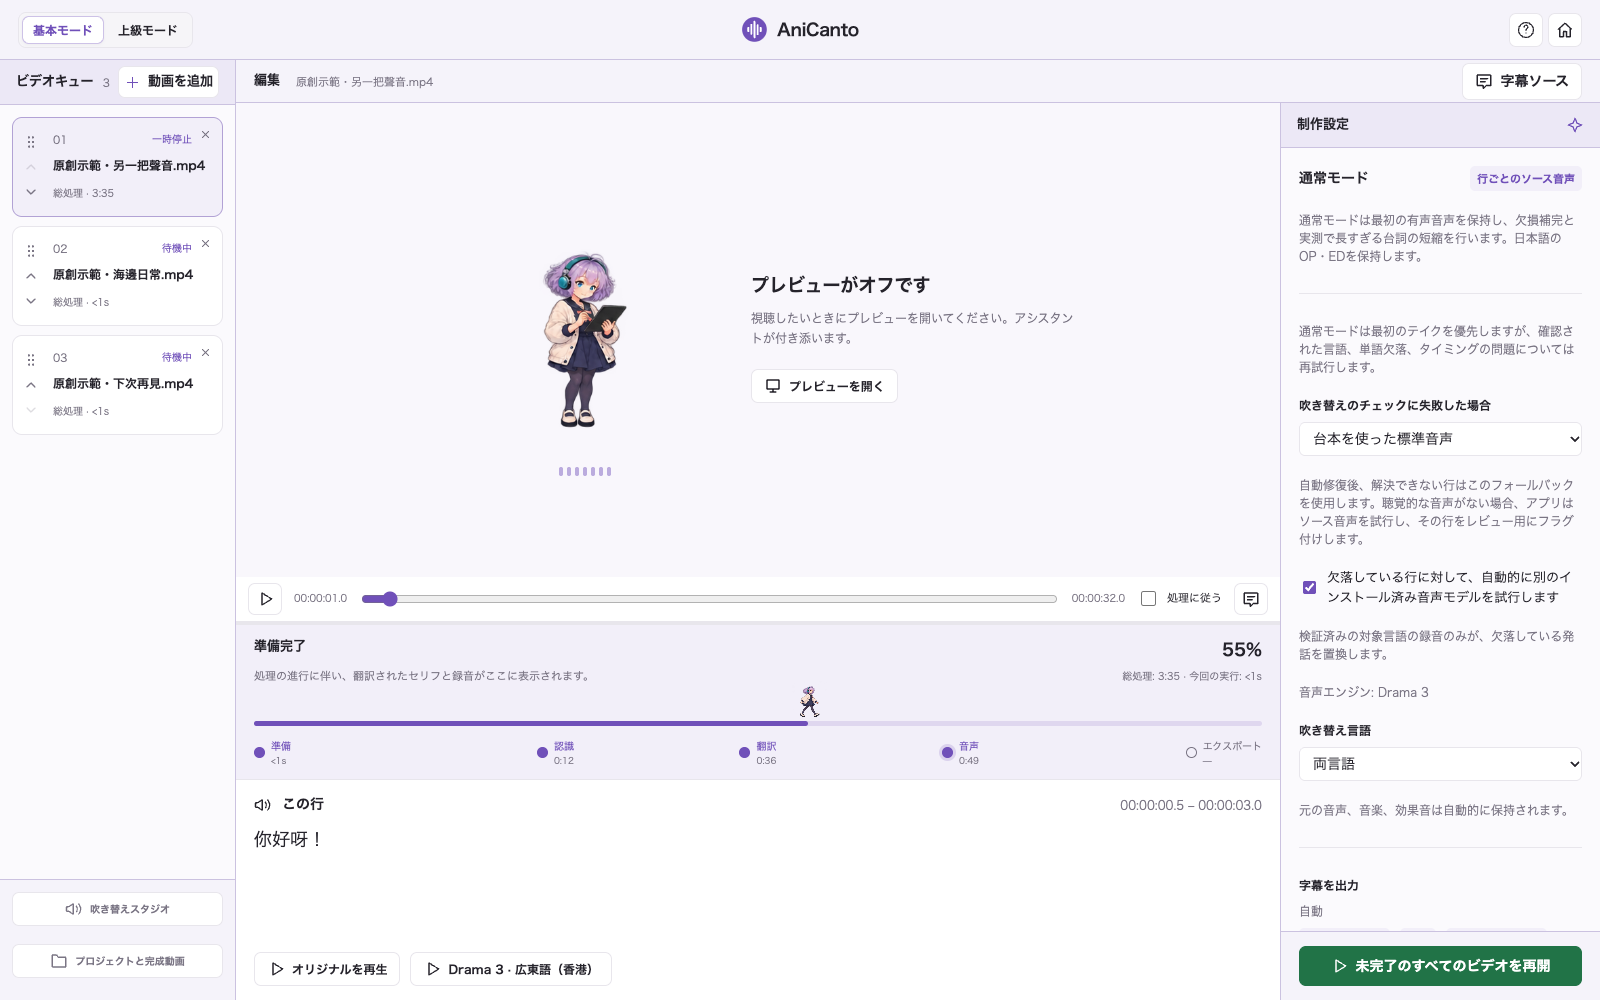
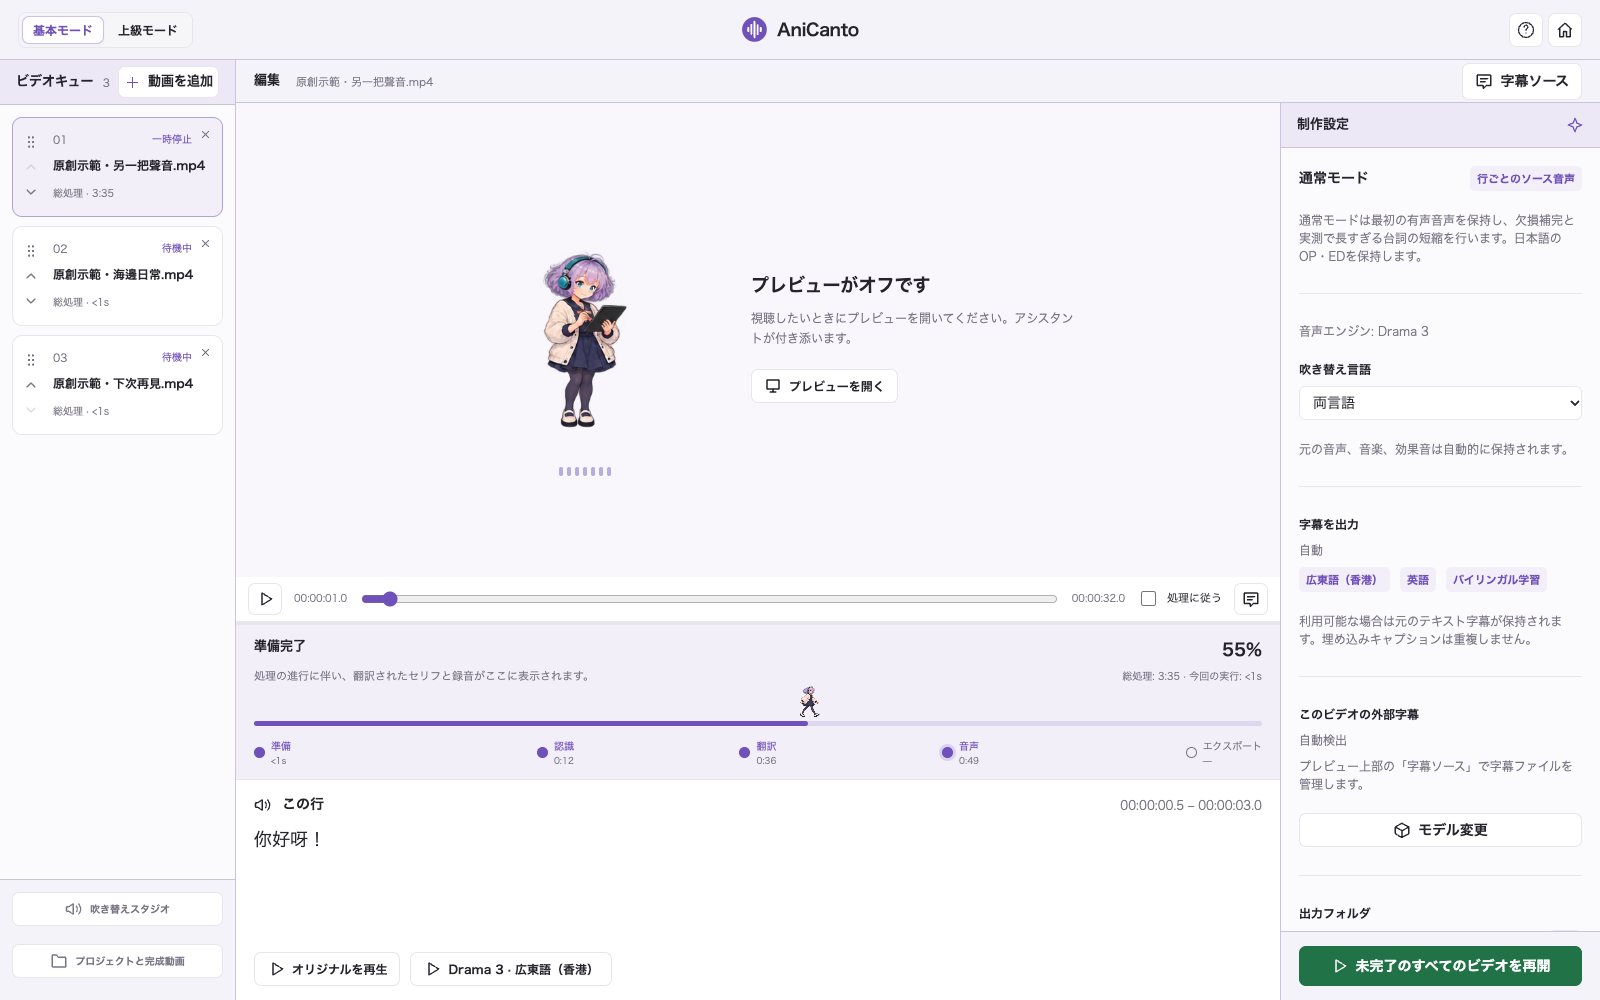
Align repair controls with the default retained-recording policy

Changed region(s): [[0.8125, 0.31, 1.0, 0.837], [0.8125, 0.868, 0.8438, 0.93]]

diff --git a/studio/web/app.js b/studio/web/app.js
@@ -347,7 +347,7 @@ function productionSettings(expert){const s=expert?state.settings:{...state.sett
  <div class="row spread"><h4>${esc(t(s.productionMode==='fast'?'High speed':s.productionMode==='standard'?'Full AI review':'Normal mode'))}</h4><span class="pill">${esc(t(s.productionMode==='standard'?'Full AI review':'Source voice per line'))}</span></div>
  ${s.productionMode==='normal'?`<small>${esc(t(s.normalRepairPolicy==='verified'?'Normal mode checks missing speech, names and language, and keeps Japanese OP / ED.':'Normal mode retains audible first takes, restores missing audio and shortens measured overlong lines. Keep Japanese OP / ED.'))}</small>`:''}
  ${expert?`<details><summary>${esc(t('More options'))}</summary><div class="stack">${field('Production mode',select('productionMode',[['normal','Normal mode'],['fast','High speed'],...(expert||s.productionMode==='standard'?[['standard','Full AI review']]:[])],s.productionMode,productionModeLocked()?`disabled title="${esc(t('Production mode is locked until processing finishes.'))}"`:''))}${productionModeLocked()?`<small>${esc(t('Production mode is locked until processing finishes.'))}</small>`:''}${s.productionMode==='fast'?`<p class="warning">${esc(t('High speed skips all quality review and quality-driven retakes. The video may contain dubbing defects.'))}</p>`:s.productionMode==='standard'?`<p>${esc(t(FULL_AI_NOTICE))}</p>`:''}</div></details>`:''}
- <div class="rule"></div>${expert&&s.normalRepairPolicy==='verified'?check('preferFirstAudibleTake','Prefer the first take; repair confirmed errors and timing conflicts',s.preferFirstAudibleTake!==false,active?'disabled':''):`<small>${esc(t('Normal mode prefers the first take, but retries confirmed language, missing-word and timing problems.'))}</small>`}${expert?`<small>${esc(t('Uncertain accents stay in the review report; confirmed defects trigger bounded retakes.'))}</small>`:''}${field('When dubbing checks still fail',select('failedVoicePolicy',[['generic','Generic target-language voice from the script'],['first-take','First audible generated take'],['source','Original source speech']],s.failedVoicePolicy||'generic',productionModeLocked()?'disabled':''))}<small>${esc(t('After automatic repair, unresolved lines use this fallback. If it has no audible audio, the app tries source speech and flags the line for review.'))}</small>${check('automaticAlternateVoice','Automatically try another installed voice model for missing lines',s.automaticAlternateVoice!==false,active?'disabled':'')}<small>${esc(t('Only verified target-language recordings replace missing speech.'))}</small>${expert?field('Voice engine',select('ttsBackend',engineMenu(),s.ttsBackend,active?'disabled':'')):`<small>${esc(t('Voice engine'))}: ${esc(engineName(s.ttsBackend))}</small>`}
+ <div class="rule"></div>${expert&&s.normalRepairPolicy==='verified'?check('preferFirstAudibleTake','Prefer the first take; repair confirmed errors and timing conflicts',s.preferFirstAudibleTake!==false,active?'disabled':''):''}${expert&&s.normalRepairPolicy==='verified'?`<small>${esc(t('Uncertain accents stay in the review report; confirmed defects trigger bounded retakes.'))}</small>`:''}${s.normalRepairPolicy==='verified'?field('When dubbing checks still fail',select('failedVoicePolicy',[['generic','Generic target-language voice from the script'],['first-take','First audible generated take'],['source','Original source speech']],s.failedVoicePolicy||'generic',productionModeLocked()?'disabled':'')):''}${s.normalRepairPolicy==='verified'?`<small>${esc(t('After automatic repair, unresolved lines use this fallback. If it has no audible audio, the app tries source speech and flags the line for review.'))}</small>${check('automaticAlternateVoice','Automatically try another installed voice model for missing lines',s.automaticAlternateVoice!==false,active?'disabled':'')}<small>${esc(t('Only verified target-language recordings replace missing speech.'))}</small>`:''}${expert?field('Voice engine',select('ttsBackend',engineMenu(),s.ttsBackend,active?'disabled':'')):`<small>${esc(t('Voice engine'))}: ${esc(engineName(s.ttsBackend))}</small>`}
  ${expert?`<details class="engine-tracks"><summary>${esc(t('Additional voice engines'))} · ${(s.selectedEngines||[]).length}</summary><div class="stack"><small>${esc(t('Create a separate audio track for each selected engine and dubbing language in one conversion. Engines run in sequence to limit memory use. Extra engines need their models installed and increase processing time.'))}</small>${engineChoices().map(([k,l])=>`<label class="check"><input type="checkbox" data-engine-track="${k}" ${(s.selectedEngines||[s.ttsBackend]).includes(k)?'checked':''} ${k===s.ttsBackend||active||engineBlocked(k)?'disabled':''}>${esc(l)}${engineBlocked(k)?' · '+esc(t('Cantonese only')):''}${k===s.ttsBackend?` · ${esc(t('Default track'))}`:''}</label>`).join('')}</div></details>${voiceParameterSettings(s)}`:''}
  ${field('Dubbing languages',select('dubLanguages',englishSource?[['yue','Hong Kong Cantonese']]:[['yue','Hong Kong Cantonese'],['en','English'],['both','Both languages']],englishSource?'yue':s.dubLanguages?.length===2?'both':s.dubLanguages?.[0],englishSource?'disabled':''))}
  ${expert?check('includeOriginal',sourceLanguage()==='ja'?'Keep Japanese audio track':'Keep original audio track',s.includeOriginal):`<small>${esc(t('Original audio, music and sound effects are preserved automatically.'))}</small>`}<div class="rule"></div>
